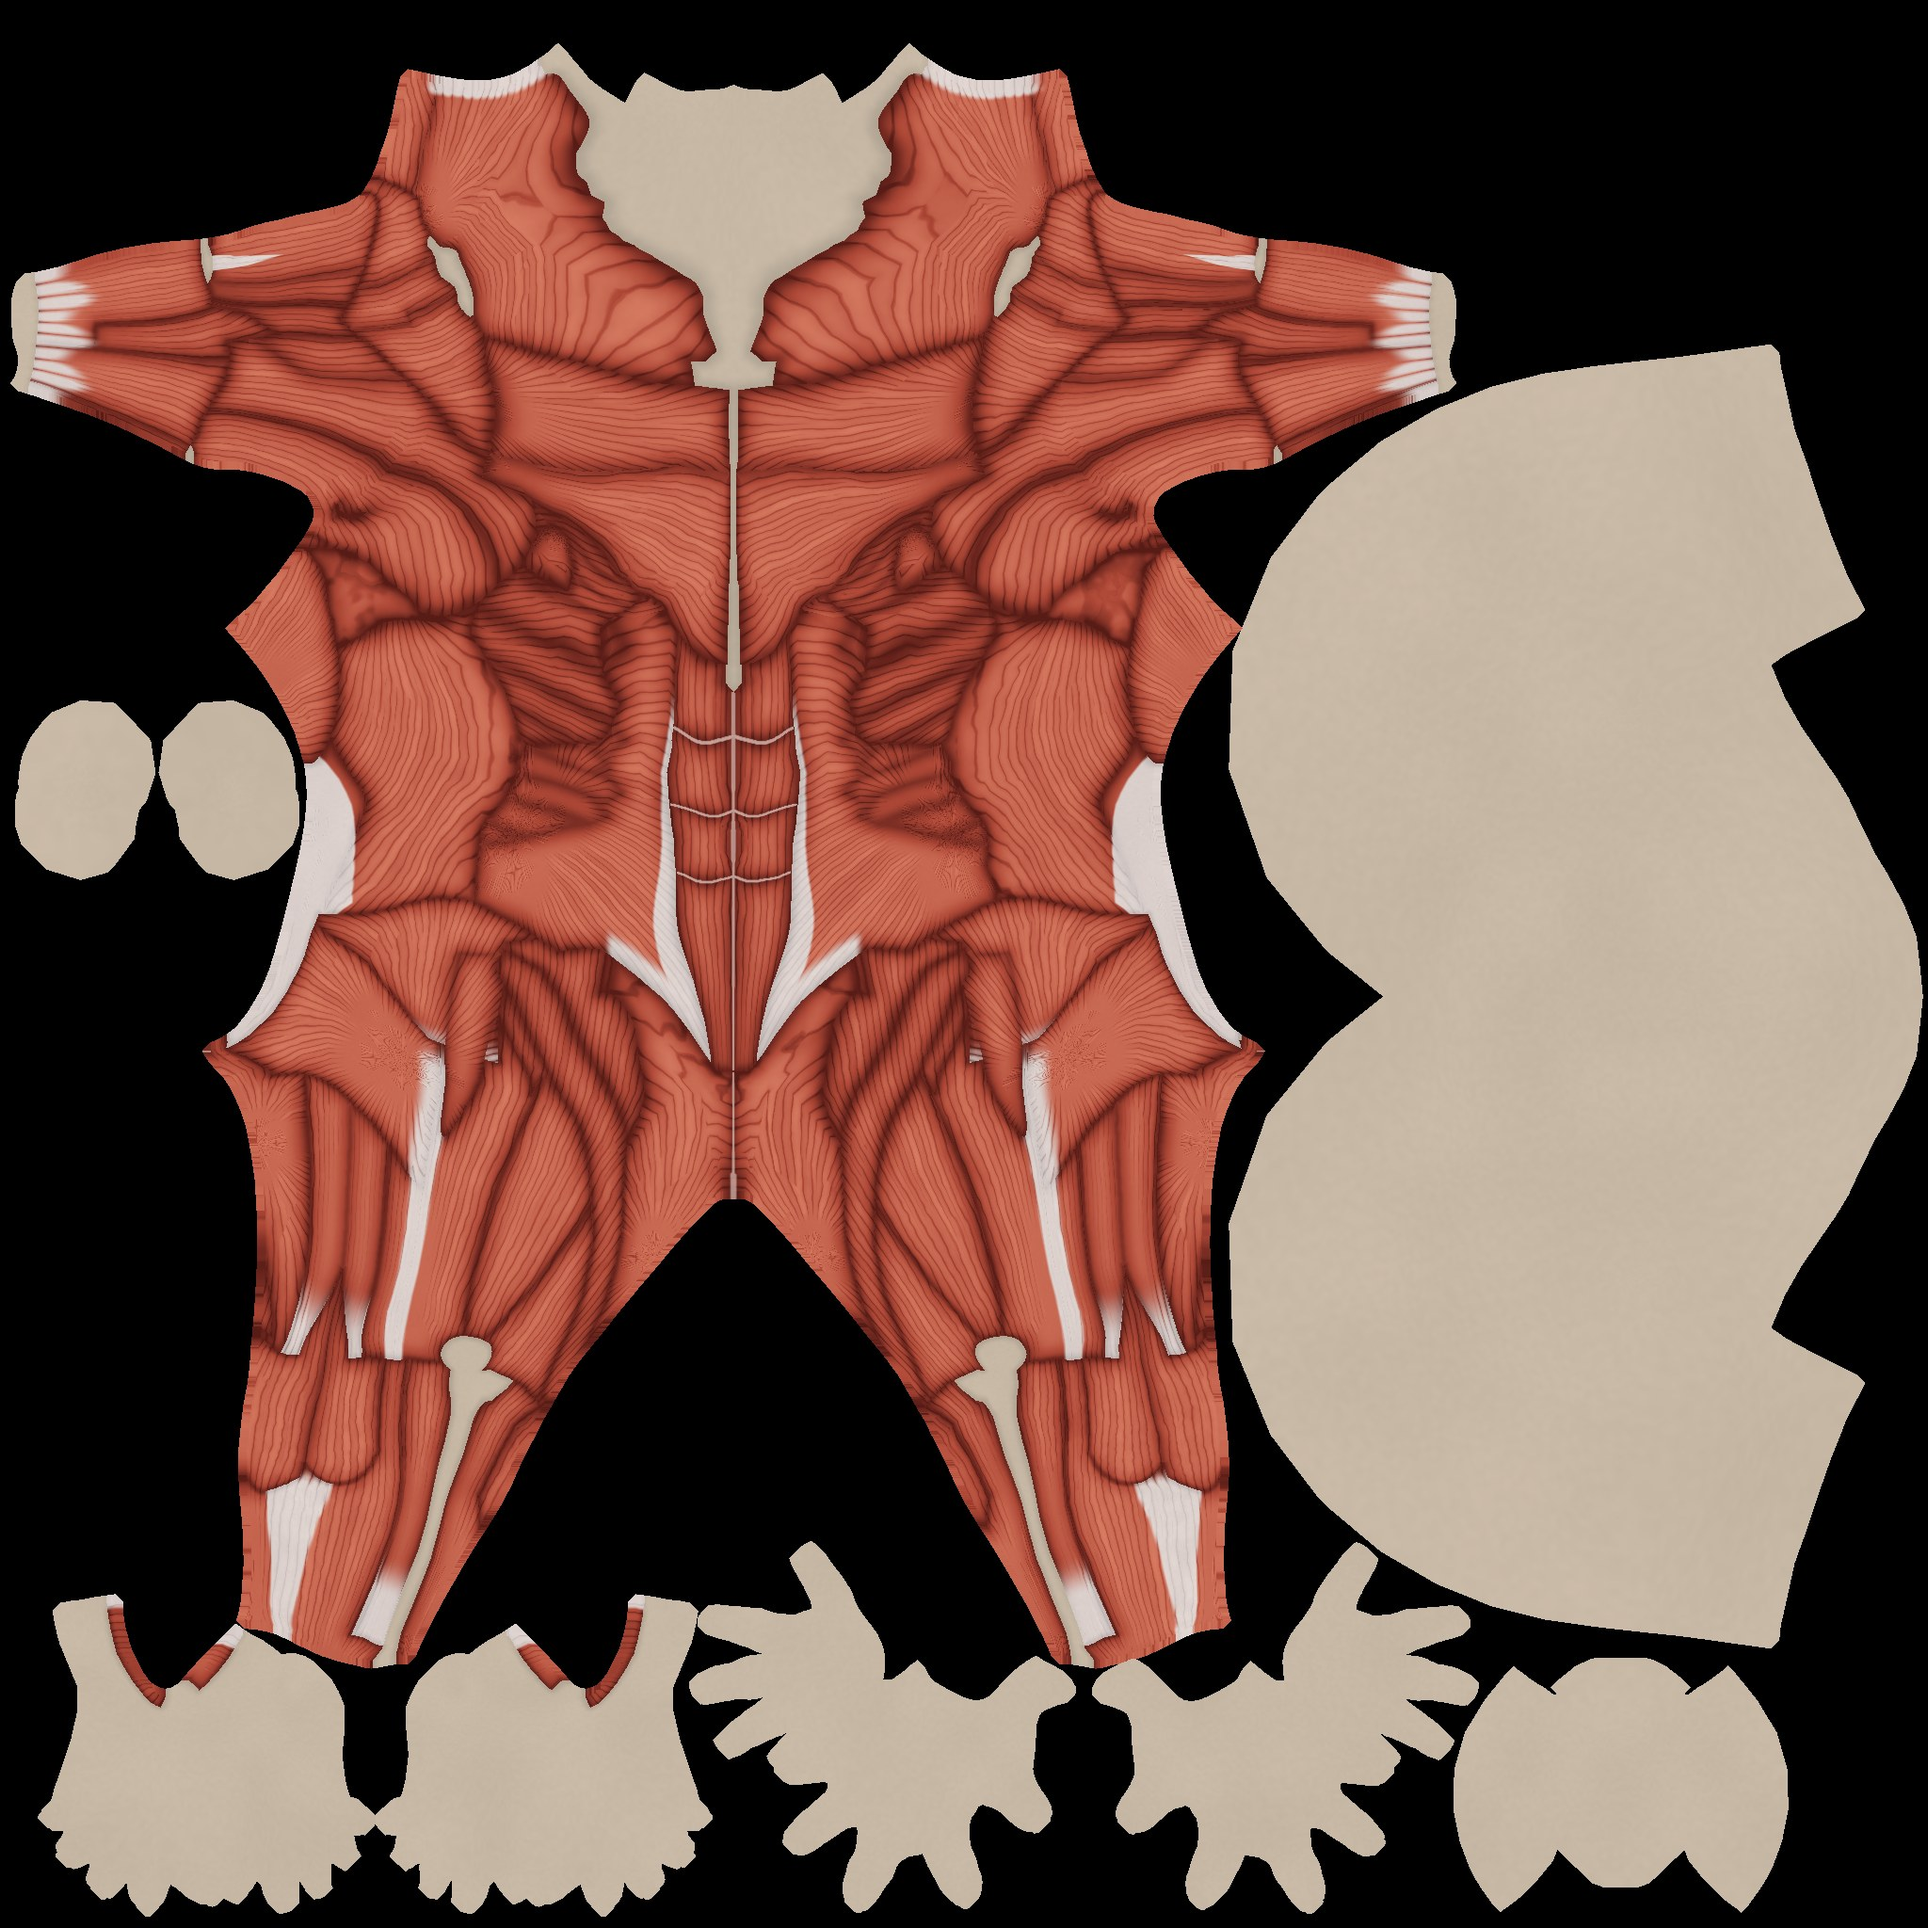
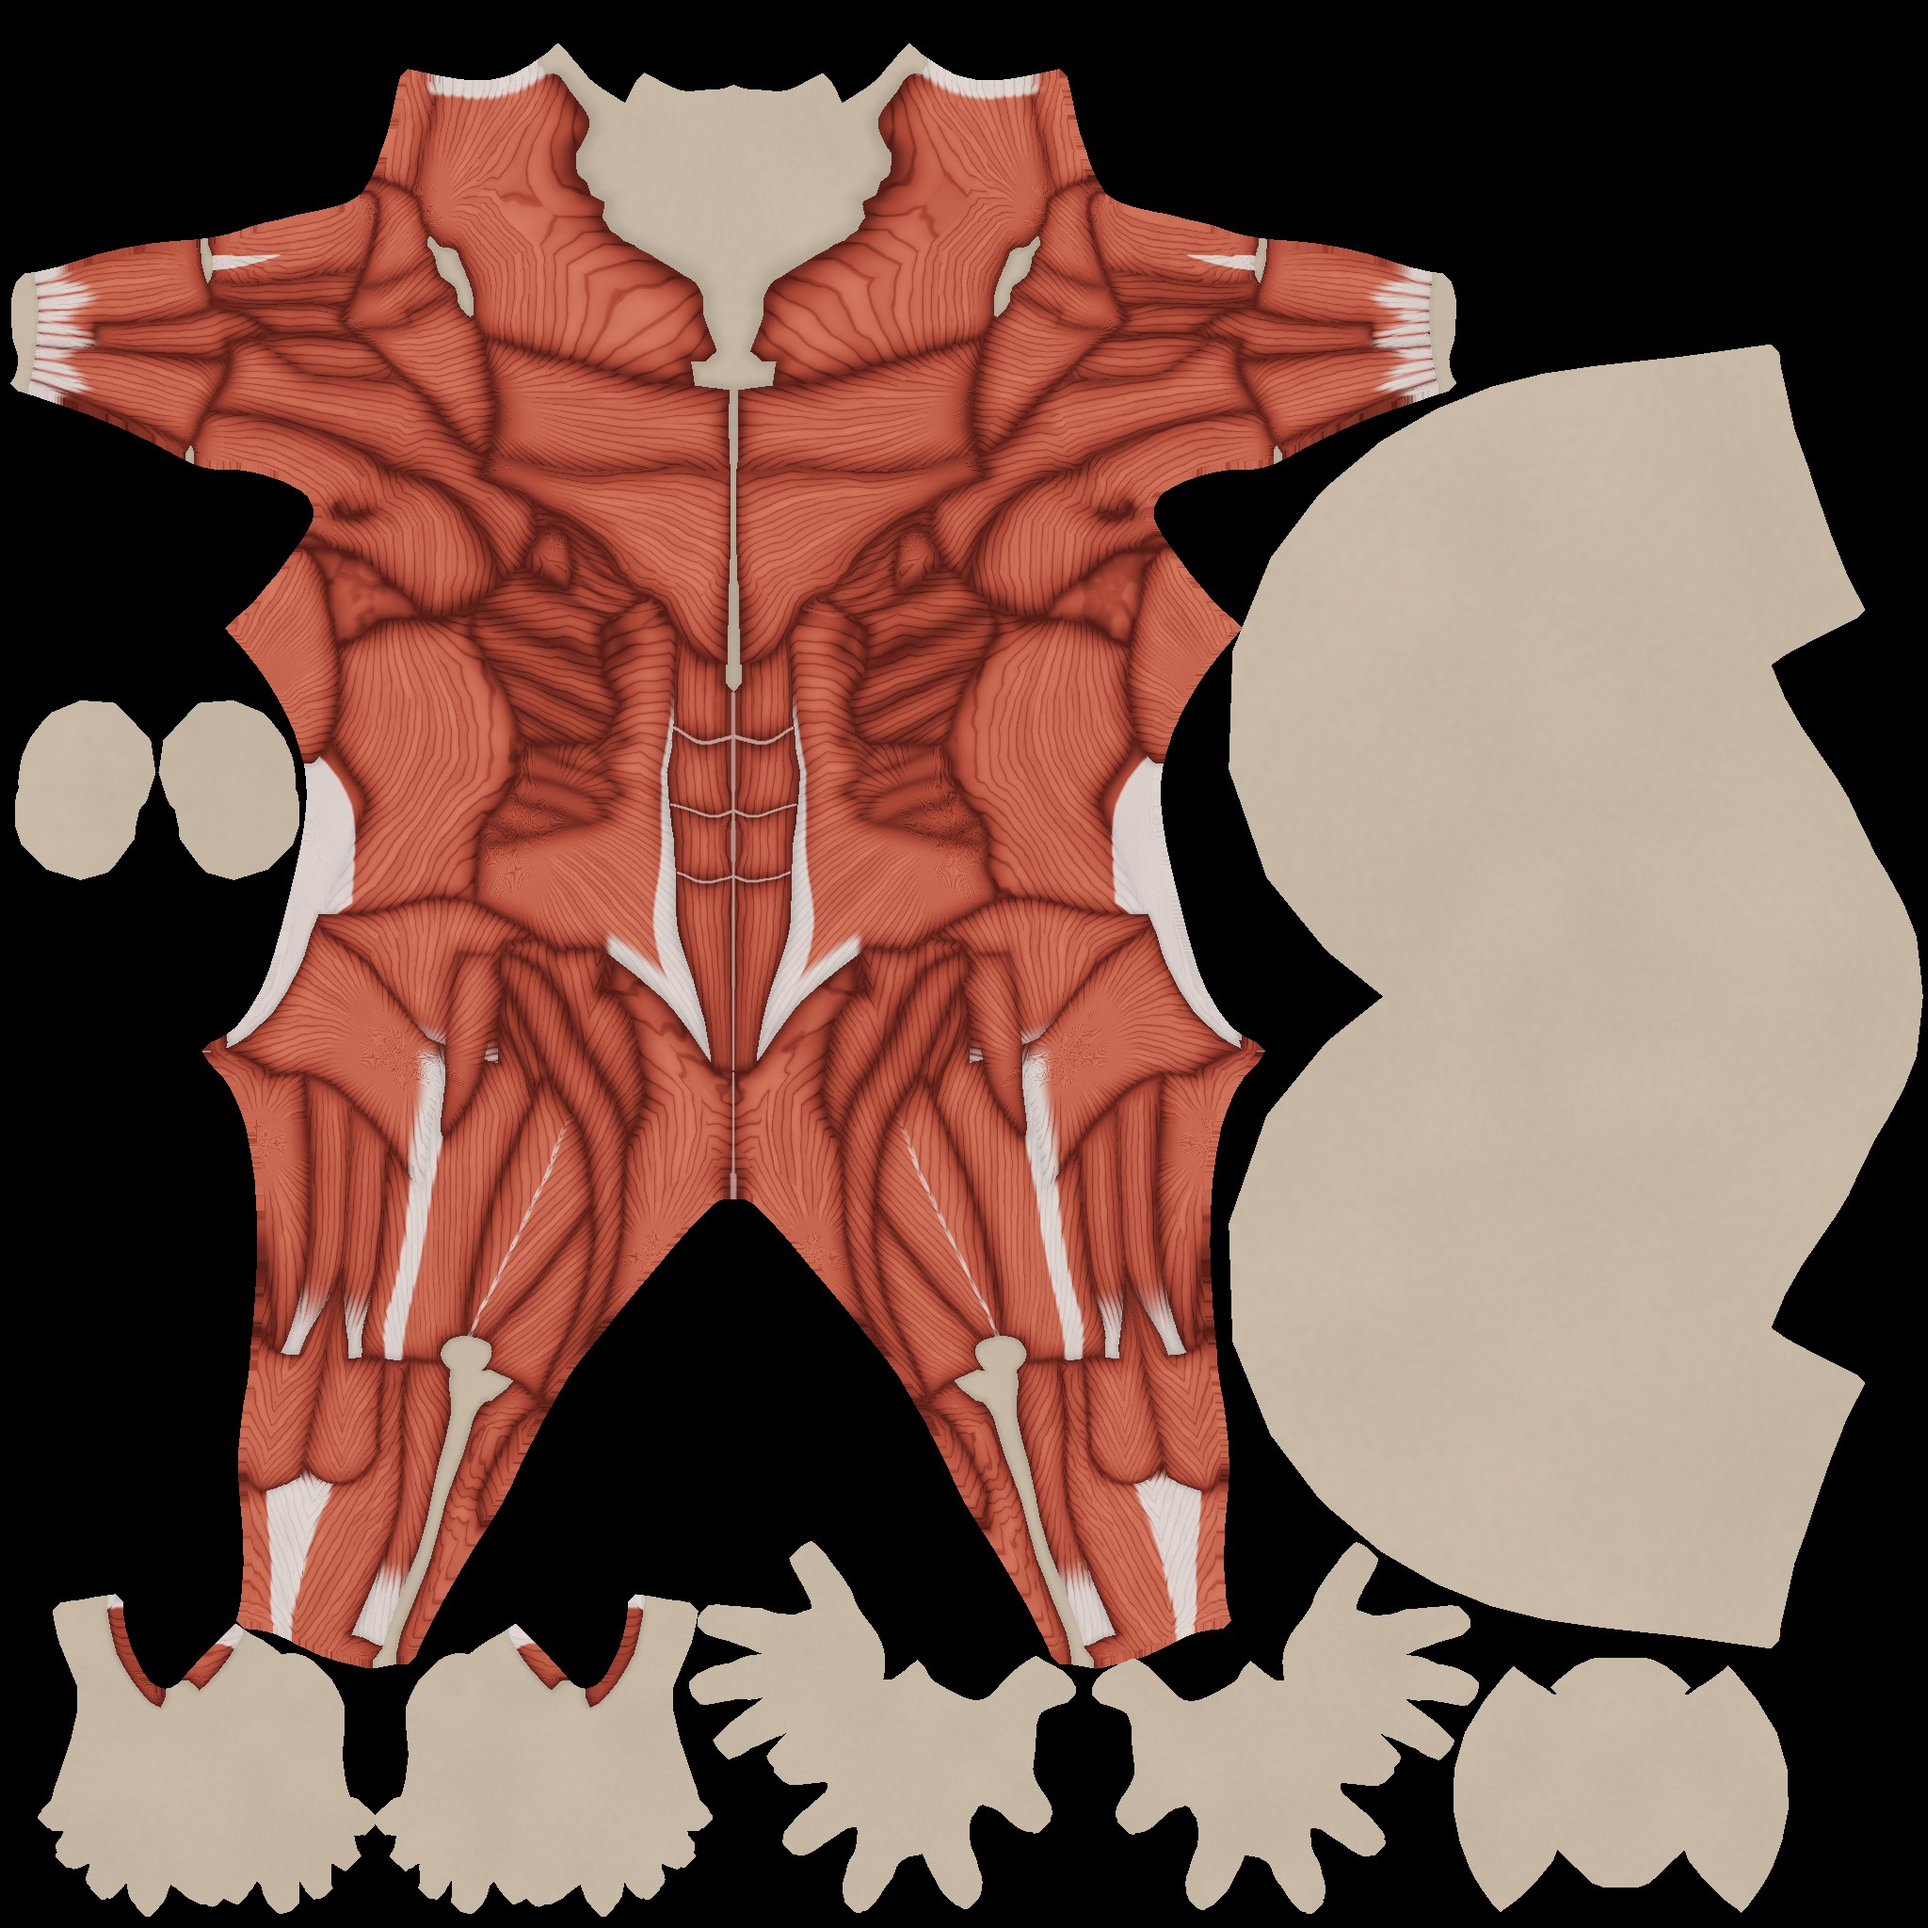
Faserverlauf je Muskel an den Gliedmaßen, Polster je Muskelteil, Version 0.7.0
- Spindel: Fasern laufen zu beiden Sehnen zusammen (Bizeps, Trizeps,
  Oberarmmuskel, Unterarm, Beinbeuger) – je Muskelkopf eigener Verlauf
- Fächer: Deltamuskel bündelt sich zum Ansatz außen am Oberarm
- Gefiedert: gerader Quadrizeps doppelt mit heller Mittelsehne, seitlicher
  und innerer Quadrizeps einseitig zur Kniescheibe, Wade und Schollenmuskel
  als Fischgrät, Schienbeinmuskel einseitig
- Wölbung je Muskelteil geglättet: Bauchzacken, Köpfe und Sixpack-Segmente
  sind eigene Polster

Claude-Session: https://claude.ai/code/session_01LHRCLqy4qHW6NHZ8ZRBzk7

diff --git a/tools/anatomie-kern.ts b/tools/anatomie-kern.ts
@@ -339,6 +339,61 @@ export function backe(g: 'm' | 'w', N = 2048): Ergebnis {
     }
   }
 
+  // ---------- 2b. Faserverlauf je Muskel an den Gliedmaßen ----------
+  // Statt stur parallel zur Gliedachse: Spindel (Fasern laufen zu beiden Sehnen zusammen), Delta (Deltamuskel bündelt
+  // sich zum Ansatz am Oberarm), gefiedert (Fasern schräg zu einer Sehne: doppelt mit Mittelsehne, einfach einseitig).
+  type Art = 'spindel' | 'delta' | 'doppelt' | 'einfach';
+  const AUFBAU: Record<string, [ReturnType<typeof glied>, Art, number]> = {   // Glied, Art, Richtung bei »einfach«
+    delt_v: [oberarm, 'delta', 0], delt_s: [oberarm, 'delta', 0], delt_h: [oberarm, 'delta', 0],
+    bizeps: [oberarm, 'spindel', 0], brachialis: [oberarm, 'spindel', 0], trizeps: [oberarm, 'spindel', 0],
+    brachiorad: [unterarm, 'spindel', 0], ua_beuger: [unterarm, 'spindel', 0], ua_strecker: [unterarm, 'spindel', 0],
+    rect_fem: [oberschenkel, 'doppelt', 0], vast_lat: [oberschenkel, 'einfach', 1], vast_med: [oberschenkel, 'einfach', -1],
+    hamstrings: [oberschenkel, 'spindel', 0],
+    gastro: [unterschenkel, 'doppelt', 0], soleus: [unterschenkel, 'doppelt', 0], tibialis: [unterschenkel, 'einfach', 1],
+  };
+  {
+    const gruppeVon = new Int32Array(NN2).fill(-1), lage = new Float32Array(NN2 * 3);
+    const nr = new Map<string, number>(), stat: { cs: number; sn: number; ts: number[] }[] = [];
+    for (let i = 0; i < NN2; i++) {
+      const e = einheit[i];
+      if (dreieck[i] < 0 || !e) continue;
+      const id = idVon(e), a = AUFBAU[id];
+      if (!a) continue;
+      const p: V3 = [Math.abs(pos[3 * i]), pos[3 * i + 1], pos[3 * i + 2]], { t, w, radius } = imGlied(a[0], p);
+      // Deltamuskel als ein Fächer, sonst je Muskelkopf (Bizeps, Trizeps, Wade, Beinbeuger) eigener Verlauf
+      const k = id.startsWith('delt_') ? `delt|${pos[3 * i] >= 0 ? 'L' : 'R'}` : String(teil[i]);
+      let g = nr.get(k);
+      if (g === undefined) { g = stat.length; nr.set(k, g); stat.push({ cs: 0, sn: 0, ts: [] }); }
+      stat[g].cs += Math.cos(w); stat[g].sn += Math.sin(w); stat[g].ts.push(t);
+      gruppeVon[i] = g; lage[3 * i] = t; lage[3 * i + 1] = w; lage[3 * i + 2] = radius;
+    }
+    const mitte = stat.map(st => {
+      st.ts.sort((a, b) => a - b);
+      const n = st.ts.length, t0 = st.ts[Math.floor(0.01 * n)], t1 = st.ts[Math.min(n - 1, Math.floor(0.99 * n))];
+      return { wc: Math.atan2(st.sn, st.cs), t0, t1: t1 > t0 + 0.02 ? t1 : t0 + 0.02 };
+    });
+    const DICHTE = 190, SCHRAEG = 0.38;
+    for (let i = 0; i < NN2; i++) {
+      const g = gruppeVon[i];
+      if (g < 0) continue;
+      const id = idVon(einheit[i]), [gl, art, richtung] = AUFBAU[id], m = mitte[g];
+      const t = lage[3 * i], dw = Math.atan2(Math.sin(lage[3 * i + 1] - m.wc), Math.cos(lage[3 * i + 1] - m.wc));
+      const bogen = dw * lage[3 * i + 2], sl = Math.min(1, Math.max(0, (t - m.t0) / (m.t1 - m.t0))), laengs = (t - m.t0) * gl.laenge;
+      let ph: number;
+      if (art === 'spindel') ph = bogen * DICHTE / (0.42 + 0.58 * Math.sin(Math.PI * sl) ** 0.7);
+      else if (art === 'delta') ph = bogen * DICHTE / (0.28 + 0.72 * (1 - sl ** 1.6));
+      else {
+        const breit = 0.62 + 0.38 * Math.sin(Math.PI * sl) ** 0.7;
+        ph = art === 'doppelt'
+          ? DICHTE * (Math.abs(bogen) * Math.cos(SCHRAEG) / breit + laengs * Math.sin(SCHRAEG))
+          : DICHTE * (bogen * Math.cos(SCHRAEG) / breit + richtung * laengs * Math.sin(SCHRAEG));
+        // Mittelsehne des geraden Quadrizeps als feiner heller Streifen in der unteren Hälfte
+        if (id === 'rect_fem') sehne[i] = Math.max(sehne[i], 0.55 * (1 - glatt(0.0012, 0.003, Math.abs(bogen))) * glatt(0.3, 0.6, sl));
+      }
+      phase[i] = ph;
+    }
+  }
+
   // ---------- 3. Grenzen: Wechsel von Einheit oder Unterteilung zum Nachbartexel ----------
   const staerke = (ta: number, tb: number) => {
     const ea = ta >> 4, eb = tb >> 4;
@@ -430,7 +485,7 @@ export function backe(g: 'm' | 'w', N = 2048): Ergebnis {
 
   // ---------- 4b. Wölbung je Muskel glätten ----------
   // Das Abstandsfeld zur nächsten Grenze hat Grate (Dachform, Pyramiden auf dem Sixpack). Gauß-Glättung im
-  // Texturraum, nur innerhalb derselben Einheit, rundet die Bäuche ab; die Furche bleibt scharf (eigener Term).
+  // Texturraum, nur innerhalb desselben Muskelteils, rundet die Bäuche ab; die Furche bleibt scharf (eigener Term).
   const wolb = new Float32Array(NN2), tmp = new Float32Array(NN2);
   for (let i = 0; i < NN2; i++) if (dreieck[i] >= 0) wolb[i] = 1 - (1 - Math.min(1, abstand[i] / 0.032)) ** 2.2;
   const R = 12, kern = Array.from({ length: 2 * R + 1 }, (_, k) => Math.exp(-(((k - R) / 6) ** 2) / 2));
@@ -443,7 +498,7 @@ export function backe(g: 'm' | 'w', N = 2048): Ergebnis {
         const xx = schritt === 1 ? px + k : px, yy = schritt === 1 ? py : py + k;
         if (xx < 0 || yy < 0 || xx >= N || yy >= N) continue;
         const j = yy * N + xx;
-        if (dreieck[j] < 0 || einheit[j] !== einheit[i]) continue;
+        if (dreieck[j] < 0 || teil[j] !== teil[i]) continue;   // je Muskelteil: Zacken, Köpfe, Segmente eigene Polster
         sw += kern[k + R]; sv += kern[k + R] * quelle[j];
       }
       ziel[i] = sw > 0 ? sv / sw : quelle[i];

diff --git a/index.html b/index.html
@@ -17,7 +17,7 @@
 <link rel="preconnect" href="https://fonts.gstatic.com" crossorigin>
 <link rel="stylesheet" href="https://fonts.googleapis.com/css2?family=Barlow:wght@400;500;600;700&family=Saira:wdth,wght@112,600;112,700;112,800&display=swap">
 <script>
-const APP_VERSION = '0.6.0';          // bei JEDER Änderung hochzählen
+const APP_VERSION = '0.7.0';          // bei JEDER Änderung hochzählen
 window.APP_VERSION = APP_VERSION;
 </script>
 </head>

diff --git a/README.md b/README.md
@@ -119,7 +119,9 @@ zur Laufzeit färbt die App darüber Entwicklung und Auswahl, und ein Tipp triff
 Muskelgrenzen sind Furchen im Relief statt gezeichneter Linien; helle Faszie gibt es nur an Linea alba, Mittellinien und den
 Sehnenzügen des Sixpacks. Fasern sind gezeichnete Stränge mit eigener Helligkeit (in der Farbe, nicht im Relief, damit sie
 nicht glitzern; wo die Textur zu grob ist, doppelt so breit), Sehnenübergänge fiedern aus. Die Reliefkarte trägt im
-Grünkanal die Furchentiefe, damit Furchen kein Glanzlicht fangen. Muskelgewebe bekommt im
+Grünkanal die Furchentiefe, damit Furchen kein Glanzlicht fangen.
+An den Gliedmaßen folgt der Faserverlauf dem Muskelbau: Spindel (Bizeps, Unterarm, Beinbeuger), Fächer zum Ansatz
+(Deltamuskel), gefiedert (gerader Quadrizeps mit Mittelsehne, seitlicher und innerer Quadrizeps, Wade). Muskelgewebe bekommt im
 Shader einen feuchten Glanz, Sehnen bleiben seidenmatt.
 
 ## Lizenz der Körpermodelle
